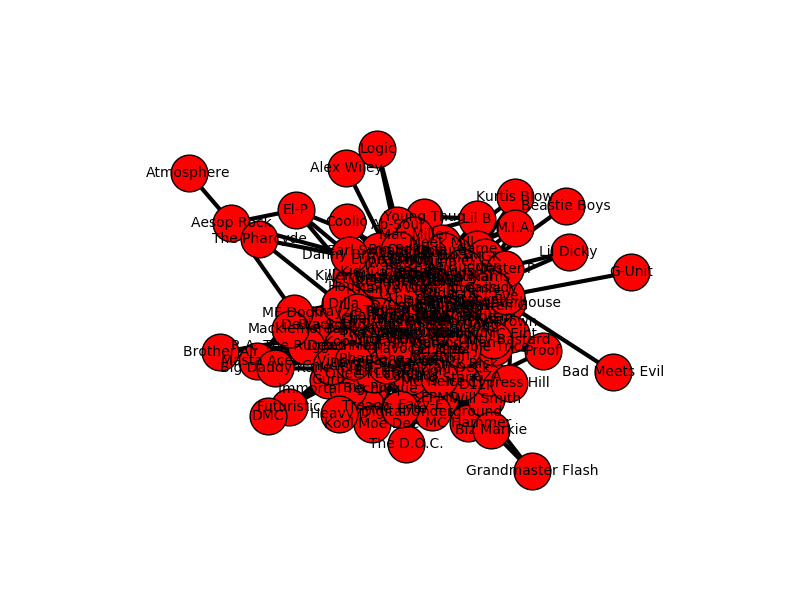
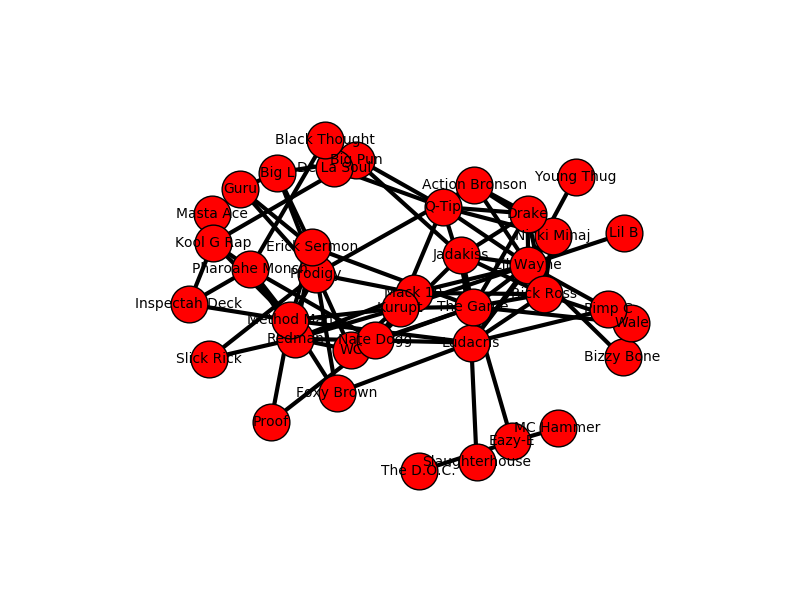
Add scatter plot image

Changed region(s): [[0.1562, 0.18, 0.8438, 0.84]]

diff --git a/src/RapperCollabGraph.py b/src/RapperCollabGraph.py
@@ -14,14 +14,16 @@ with open('rapper_names.json', 'w') as df:
 G = nx.Graph()
 Edges = []
 
-for x in range(1, 197):
+max_nodes = 50
+
+for x in range(1, max_nodes):
     with open('rapper_stats'+str(x)+'.json') as data_file:
         tracks = json.load(data_file)
     tracks_info = tracks[tracks.keys()[0]]
     for track in tracks_info:
         for x in range(len(track['artists'])):
             for y in range(x+1, len(track['artists'])):
-                if(track['artists'][x]['name'] in rapper_names and track['artists'][y]['name'] in rapper_names):
+                if(track['artists'][x]['name'] in rapper_names[:max_nodes] and track['artists'][y]['name'] in rapper_names[:max_nodes]):
                     G.add_edge(track['artists'][x]['name'], track['artists'][y]['name'])
 
 pos = nx.spring_layout(G)
